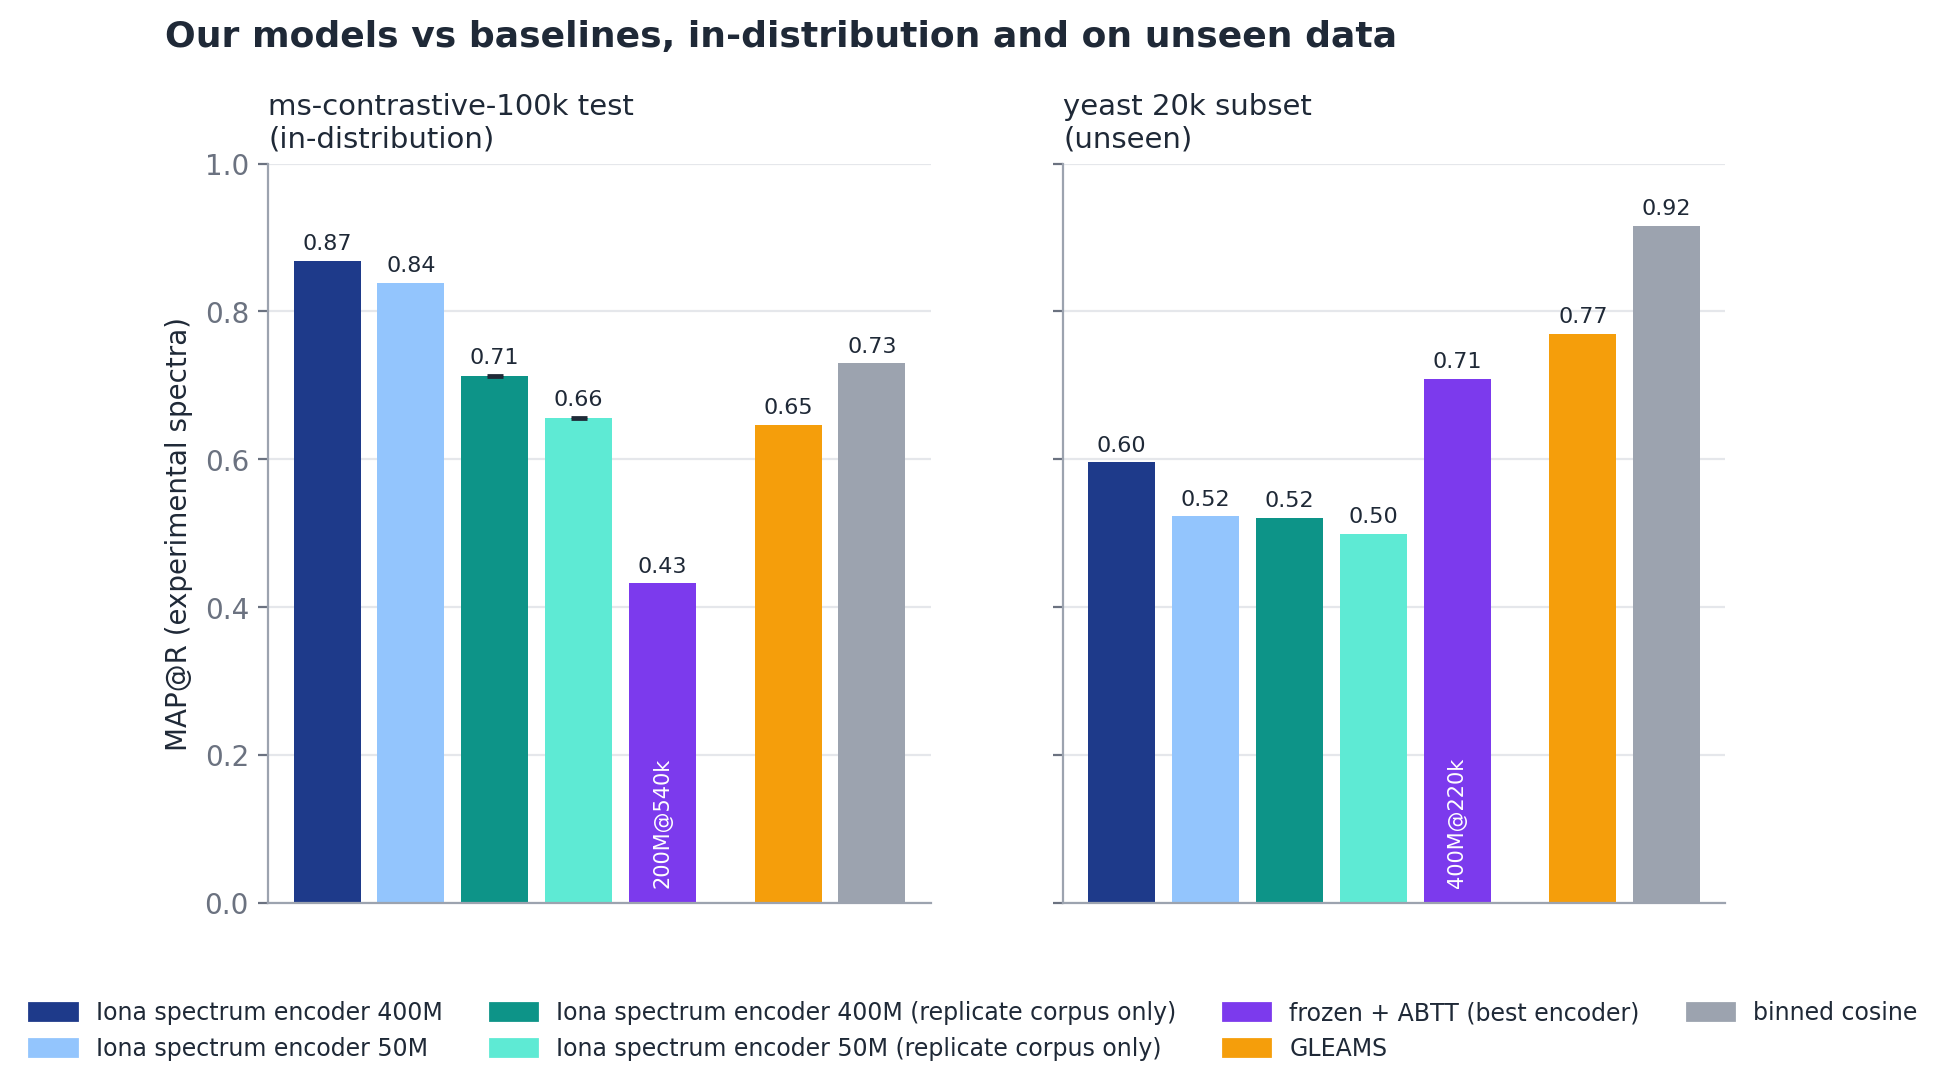
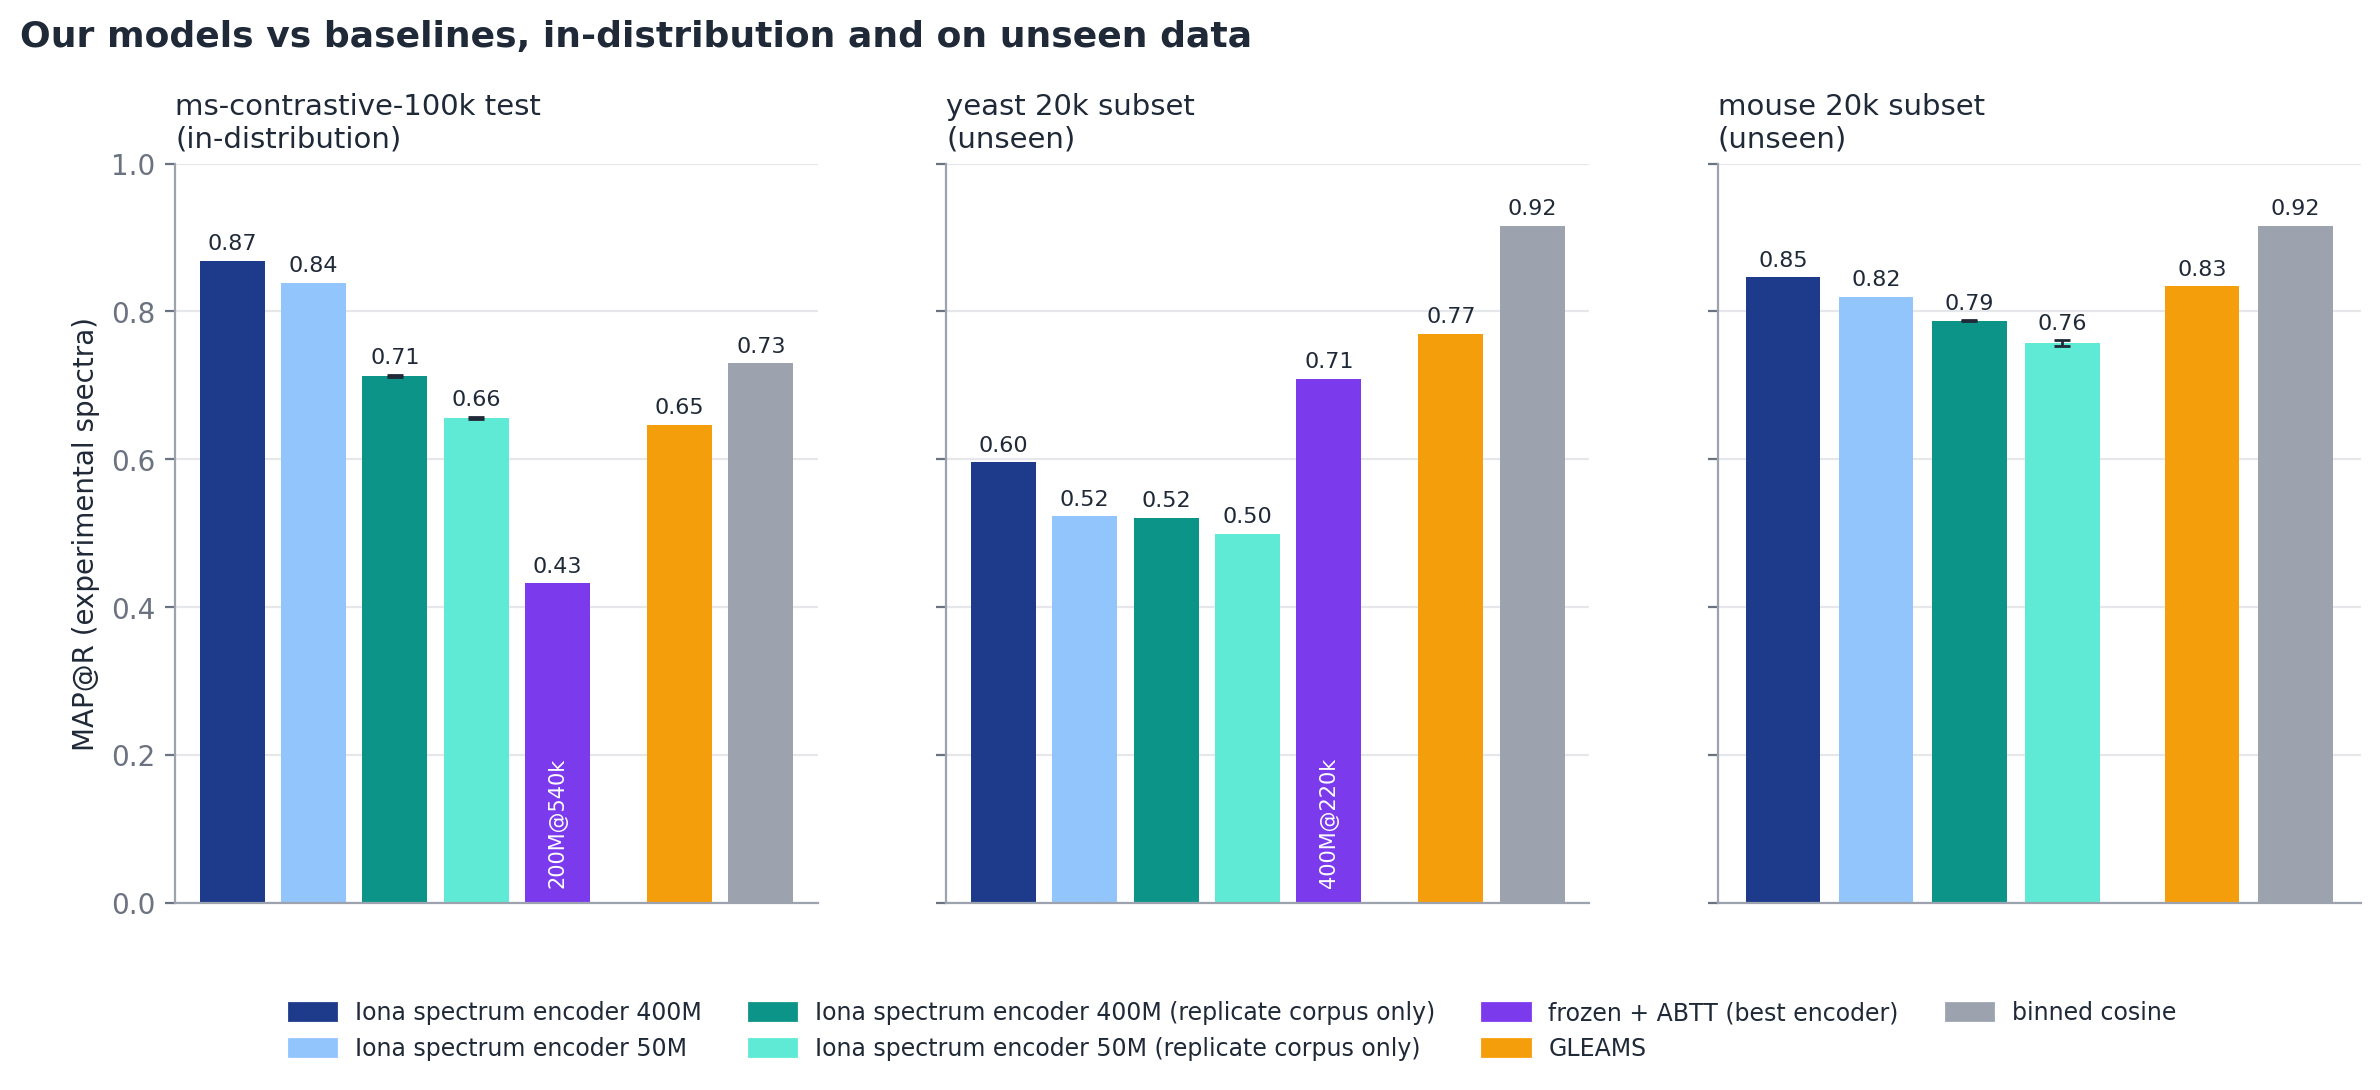
C_transfer: mouse 20k panel; 50M mouse scoring list
Claude-Session: https://claude.ai/code/session_01ATgkXx1oRRqvzB3G8wYeta

diff --git a/sweeps/package_contrastive.py b/sweeps/package_contrastive.py
@@ -37,6 +37,7 @@ BENCH = {
     "hek-lowres": ("c11_cap20", "c11_cap20", "HEK\n(unseen, low-res MS2)"),
     "yeast-full": ("nine_yeast", "nine_yeast", "nine-species yeast\n(unseen, high-res)"),
     "yeast-20k": ("nine20k", "nine_yeast20k", "yeast 20k subset\n(unseen, high-res)"),
+    "mouse-20k": ("mouse20k", "noble_mouse20k", "nine-species mouse 20k\n(unseen, high-res)"),
     "oodval-8species": ("oodval20k", None, "8 other species\n(OOD validation)"),
 }
 INK, MUTED, GRIDC = "#1f2937", "#6b7280", "#e5e7eb"
@@ -280,6 +281,7 @@ def fig_transfer(rows, zs, panels=None, baselines=True, out="C_transfer.png",
 
 REP_LABEL = {"400m": "Iona spectrum encoder 400M (replicate corpus only)",
              "50m": "Iona spectrum encoder 50M (replicate corpus only)"}
+TRANSFER_BENCH = ["ms-contrastive-100k", "yeast-20k", "mouse-20k"]
 # C_transfer names our fine-tuned models as released (Iona); the other figures keep "fine-tuned".
 TRANSFER_LABELS = {"fine-tuned 400M": "Iona spectrum encoder 400M", "fine-tuned 50M": "Iona spectrum encoder 50M",
                    "replicate corpus only 400M": REP_LABEL["400m"], "replicate corpus only 50M": REP_LABEL["50m"]}
@@ -359,23 +361,28 @@ def write_plot_csv(name, out_rows, keys=PLOT_KEYS):
 def export_plot_data(rows, zs, ab):
     """One CSV per figure holding exactly the per-seed rows that figure plots (same selection as the plots)."""
     # C_transfer_ours: our models on the in-distribution test and on yeast 20k
-    out = []
-    for b in ("ms-contrastive-100k", "yeast-20k"):
+    def ours(b):
+        out = []
         for model, rs in (("fine-tuned 400M", sel(rows, b, C7, "400m", stage="final", seed=BEST_SEED["400m"])),
                           ("fine-tuned 50M", sel(rows, b, C7, "50m", stage="final", seed=BEST_SEED["50m"])),
                           ("replicate corpus only 400M", sel(rows, b, STAGE1["400m"], "400m")),
                           ("replicate corpus only 50M", sel(rows, b, STAGE1["50m"], "50m"))):
             out += [as_plot_row(r, model, r["method"]) for r in rs]
-        z = max((r for r in zs if r["benchmark"] == b), key=lambda t: t["abtt_best"])
-        sc, ck = z["encoder"].split("@")
-        out.append(dict(benchmark=b, model="frozen + ABTT (best encoder)", scale=sc, pretrain_ckpt=ck, finetune_stage="",
-                        seed="", map_at_r=z["abtt_best"], hit_at_1="",
-                        note=f"frozen encoder, layer {z['abtt_layer']}, ABTT D={z['abtt_D']} (fit: {z['abtt_fit']}); "
-                             f"encoder/layer/D chosen on this benchmark"))
+        zb = [r for r in zs if r["benchmark"] == b]
+        if zb:                                   # frozen + ABTT only where it was scored (not mouse)
+            z = max(zb, key=lambda t: t["abtt_best"])
+            sc, ck = z["encoder"].split("@")
+            out.append(dict(benchmark=b, model="frozen + ABTT (best encoder)", scale=sc, pretrain_ckpt=ck,
+                            finetune_stage="", seed="", map_at_r=z["abtt_best"], hit_at_1="",
+                            note=f"frozen encoder, layer {z['abtt_layer']}, ABTT D={z['abtt_D']} (fit: {z['abtt_fit']}); "
+                                 f"encoder/layer/D chosen on this benchmark"))
+        return out
+    out = ours("ms-contrastive-100k") + ours("yeast-20k")
     write_plot_csv("C_transfer_ours.csv", out)
-    # C_transfer: the same rows (replicate-only models relabelled) + GLEAMS and binned cosine (both widths)
-    tr = [dict(r, model=TRANSFER_LABELS.get(r["model"], r["model"])) for r in out]
-    for b in ("ms-contrastive-100k", "yeast-20k"):
+    # C_transfer: the same rows (relabelled) + mouse, and GLEAMS and binned cosine (both widths)
+    tr = [dict(r, model=TRANSFER_LABELS.get(r["model"], r["model"])) for r in out + ours("mouse-20k")]
+    tr.sort(key=lambda r: TRANSFER_BENCH.index(r["benchmark"]))
+    for b in TRANSFER_BENCH:
         tr += [as_plot_row(r, "GLEAMS") for r in sel(rows, b, "GLEAMS (pretrained)")]
         bins = sel(rows, b, "binned cosine (1 Da bins)") + sel(rows, b, "binned cosine (0.1 Da bins)")
         best = max(r["map_at_r"] for r in bins)
@@ -425,7 +432,8 @@ def main():
     fig_benchmarks(rows); fig_pretraining(rows); fig_zeroshot(zs); fig_ablation(ab)
     # C_transfer: only the benchmarks every method was scored on (the 8-species OOD validation had no GLEAMS/frozen)
     fig_transfer(rows, zs, panels=[("ms-contrastive-100k", "ms-contrastive-100k test\n(in-distribution)", 8),
-                                   ("yeast-20k", "yeast 20k subset\n(unseen)", 8)],
+                                   ("yeast-20k", "yeast 20k subset\n(unseen)", 8),
+                                   ("mouse-20k", "mouse 20k subset\n(unseen)", 8)],
                  labels=TRANSFER_LABELS)
     fig_transfer(rows, zs, panels=[("ms-contrastive-100k", "ms-contrastive-100k test\n(in-distribution)", 1),
                                    ("yeast-20k", "yeast 20k subset\n(unseen)", 1)],

diff --git a/paper/experiments/spectrum_embedding/plot_spectrum_embedding.py b/paper/experiments/spectrum_embedding/plot_spectrum_embedding.py
@@ -72,9 +72,9 @@ def transfer():
               ("Iona spectrum encoder 50M (replicate corpus only)", "#5eead4"),
               ("frozen + ABTT (best encoder)", "#7c3aed"), ("GLEAMS", "#f59e0b"), ("binned cosine", "#9ca3af")]
     panels = [("ms-contrastive-100k", "ms-contrastive-100k test\n(in-distribution)"),
-              ("yeast-20k", "yeast 20k subset\n(unseen)")]
+              ("yeast-20k", "yeast 20k subset\n(unseen)"), ("mouse-20k", "mouse 20k subset\n(unseen)")]
     with plt.rc_context(STYLE):
-        fig, axes = plt.subplots(1, 2, figsize=(9.4, 4.8), sharey=True)
+        fig, axes = plt.subplots(1, len(panels), figsize=(4.7 * len(panels), 4.8), sharey=True)
         for ax, (b, title) in zip(axes, panels):
             ax.yaxis.grid(True, color=GRIDC, lw=0.8); ax.set_axisbelow(True)
             x = 0

diff --git a/paper/experiments/spectrum_embedding/README.md b/paper/experiments/spectrum_embedding/README.md
@@ -46,7 +46,7 @@ charge) embed close together; evaluated by spectrum-to-spectrum retrieval.
 ## C_transfer
 
 The `C_transfer_ours` models (same runs, same seed selection, same frozen + ABTT bars) next to the two
-baselines, on the two benchmarks where every method was scored.
+baselines, in-distribution and on two unseen nine-species subsets.
 
 - **GLEAMS**: the published pretrained model, cosine similarity, no retraining.
 - **binned cosine**: 1 Da and 0.1 Da bins are both in the CSV; the bar is the better of the two on that
@@ -55,18 +55,23 @@ baselines, on the two benchmarks where every method was scored.
   (released as `Gaolaboratory/iona-contrastive-400m` and `-50m`); "(replicate corpus only)" marks the models called
   "replicate corpus only" elsewhere: the first contrastive stage alone, without the ms-contrastive-100k epoch.
 
-| model | ms-contrastive-100k | yeast 20k |
-|---|---|---|
-| Iona spectrum encoder 400M | **0.868** | 0.596 |
-| Iona spectrum encoder 50M | 0.839 | 0.523 |
-| Iona spectrum encoder 400M (replicate corpus only) | 0.713 | 0.520 |
-| Iona spectrum encoder 50M (replicate corpus only) | 0.656 | 0.499 |
-| frozen + ABTT (best encoder) | 0.432 | 0.709 |
-| GLEAMS | 0.646 | 0.770 |
-| binned cosine (best width) | 0.729 | **0.916** |
+| model | ms-contrastive-100k | yeast 20k | mouse 20k |
+|---|---|---|---|
+| Iona spectrum encoder 400M | **0.868** | 0.596 | 0.846 |
+| Iona spectrum encoder 50M | 0.839 | 0.523 | 0.820 |
+| Iona spectrum encoder 400M (replicate corpus only) | 0.713 | 0.520 | 0.787 |
+| Iona spectrum encoder 50M (replicate corpus only) | 0.656 | 0.499 | 0.757 |
+| frozen + ABTT (best encoder) | 0.432 | 0.709 | not run |
+| GLEAMS | 0.646 | 0.770 | 0.834 |
+| binned cosine (best width) | 0.729 | **0.916** | **0.916** |
 
-- Reading: in-distribution the Iona encoders lead every baseline; on the unseen yeast data both
-  baselines are ahead of every model of ours, binned cosine by a wide margin.
+- **Mouse 20k**: the Mus musculus spectra of the Noble lab nine-species benchmark (Zenodo
+  10.5281/zenodo.12819175, `nine-species-balanced.zip`; Tide + Percolator labels at 1% FDR), groups of
+  peptide + charge with >= 2 spectra capped at 20, whole groups sampled (seed 0) to 20,003 spectra in
+  4,026 groups; no spectrum exceeds 512 peaks. Frozen + ABTT was not run on it.
+- Reading: in-distribution the Iona encoders lead every baseline. On unseen yeast both baselines are
+  ahead of every model of ours; on unseen mouse the Iona 400M encoder is level with GLEAMS (0.846 vs
+  0.834) and binned cosine leads (0.916).
 
 ## C_pretraining_scaling
 
